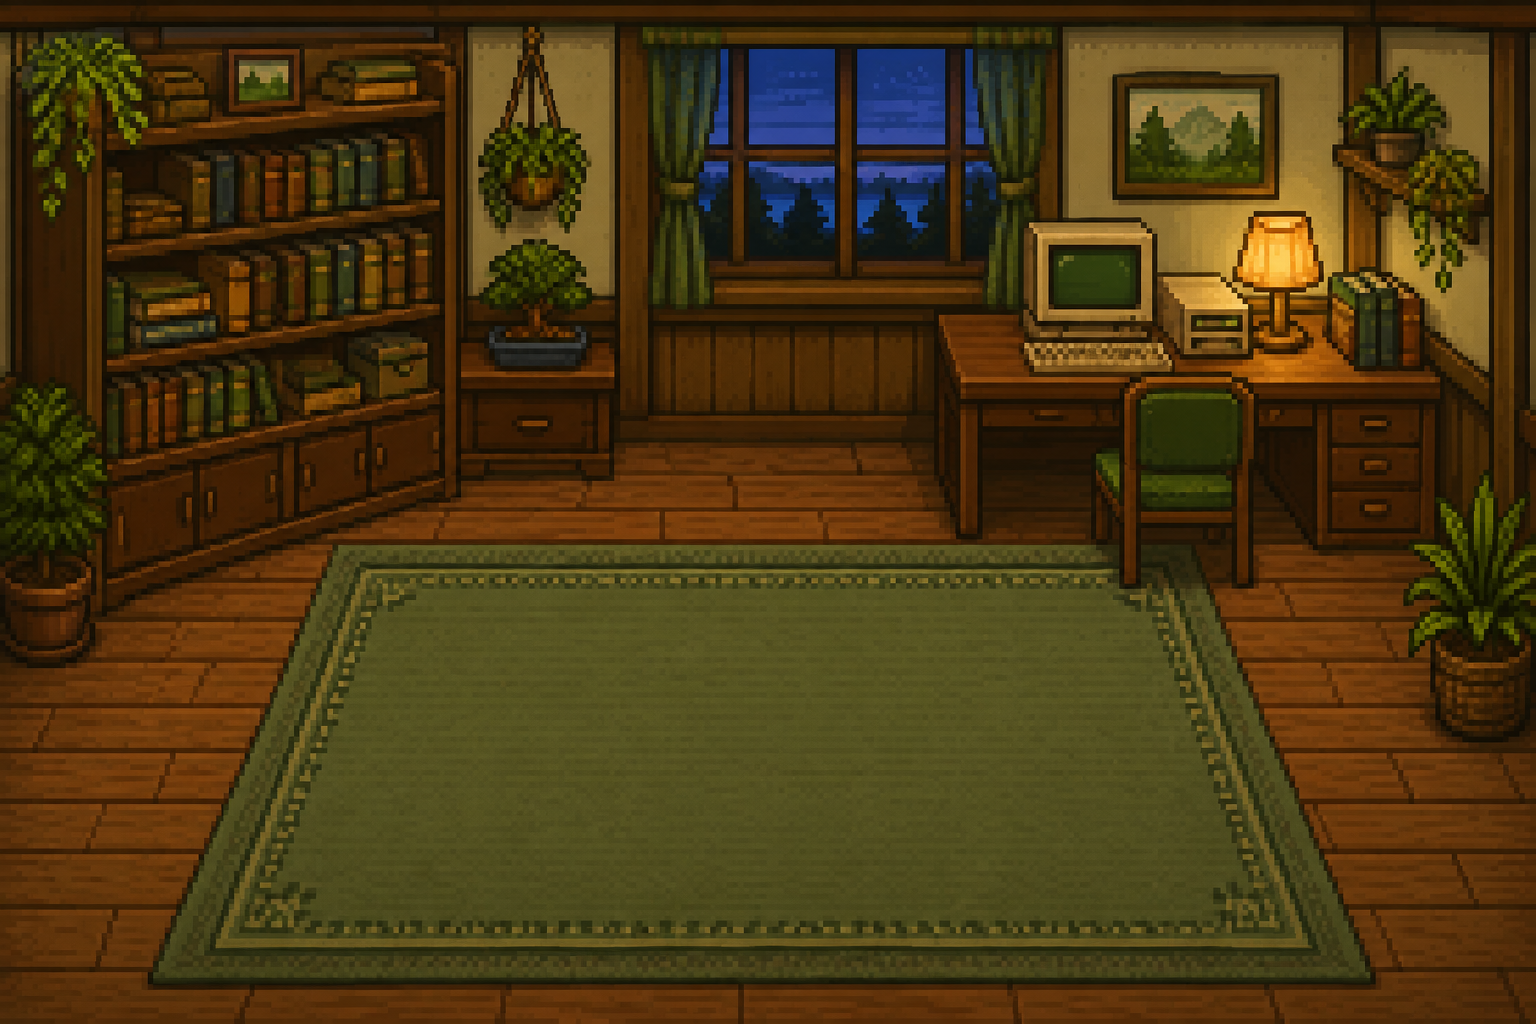
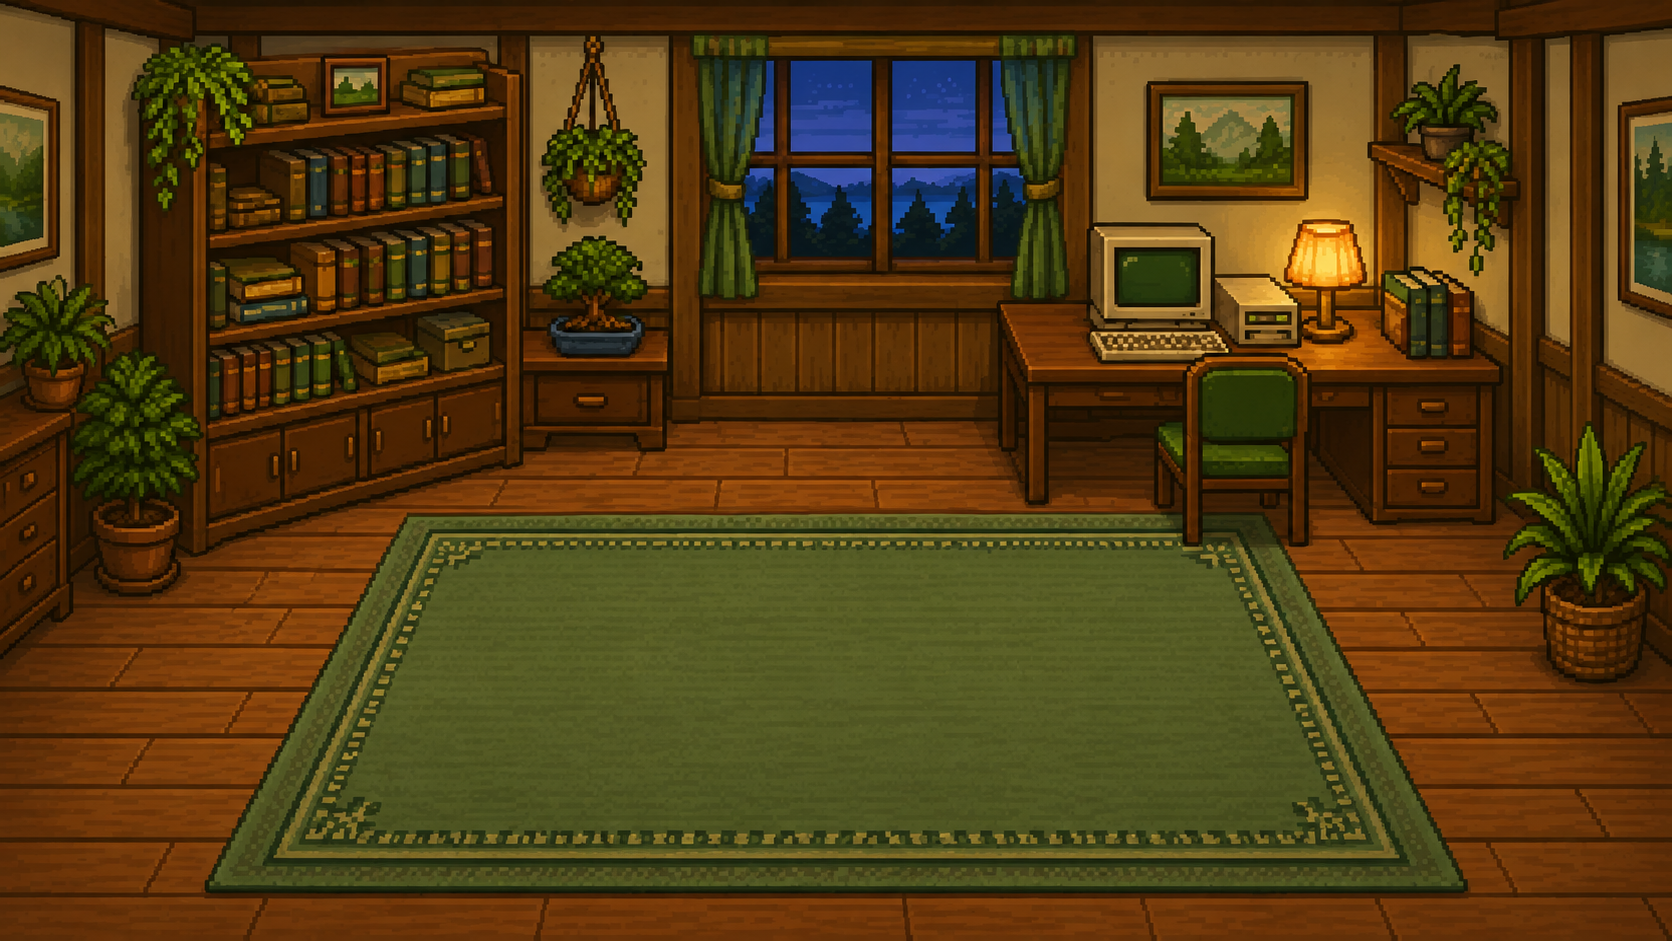
ゴンタの部屋を16:9で描き直しスマホの横幅いっぱいに拡張

diff --git a/public/room.css b/public/room.css
@@ -4,18 +4,18 @@
 .room-thinking{font-size:11px;color:#adbca5;line-height:1.6;margin:8px 0 0}
 .pixel-room{max-width:940px;margin:0 auto;padding:20px 28px 16px;font-family:GontaPixel,monospace;color:#f4e9cb}
 .room-mode #welcome,.room-mode #messages{display:none!important}.room-mode #chat{background:#171e1b}
-.room-scene{position:relative;aspect-ratio:3/2;width:100%;max-height:380px;overflow:hidden;background:#3c4633;border:4px solid #76624b;box-shadow:0 0 0 2px #111710;isolation:isolate}
+.room-scene{position:relative;aspect-ratio:16/9;width:100%;max-height:380px;overflow:hidden;background:#3c4633;border:4px solid #76624b;box-shadow:0 0 0 2px #111710;isolation:isolate}
 .room-background{position:absolute;width:100%;height:100%;object-fit:cover;image-rendering:pixelated}
-.room-worker{display:none;position:absolute;width:24%;aspect-ratio:1;background-size:200% 100%;background-repeat:no-repeat;image-rendering:pixelated;pointer-events:none;filter:drop-shadow(0 3px 0 #1b201d55);animation:room-work .65s steps(1,end) infinite}
-.room-worker-pc{left:52%;bottom:38%;background-image:url('/room-work-pc.png')}
-.room-worker-obsidian{left:10%;bottom:28%;background-image:url('/room-work-obsidian.png')}
+.room-worker{display:none;position:absolute;width:20.25%;aspect-ratio:1;background-size:200% 100%;background-repeat:no-repeat;image-rendering:pixelated;pointer-events:none;filter:drop-shadow(0 3px 0 #1b201d55);animation:room-work .65s steps(1,end) infinite}
+.room-worker-pc{left:53.875%;bottom:38%;background-image:url('/room-work-pc.png')}
+.room-worker-obsidian{left:11.875%;bottom:28%;background-image:url('/room-work-obsidian.png')}
 .pixel-room.is-searching .room-gonta,.pixel-room.is-pc-working .room-gonta{visibility:hidden}
 .pixel-room.is-searching .room-worker-obsidian,.pixel-room.is-pc-working .room-worker-pc{display:block}
 .pixel-room.is-searching .room-bubble{left:21%;bottom:72%;font-size:12px}
 .pixel-room.is-pc-working .room-bubble{left:72%;bottom:70%;font-size:12px}
 @keyframes room-work{0%,100%{background-position:0 0}50%{background-position:100% 0}}
 @media(prefers-reduced-motion:reduce){.room-worker{animation:none}}
-.room-gonta{position:absolute;width:24%;height:49%;object-fit:contain;bottom:9%;left:38%;image-rendering:pixelated;filter:drop-shadow(0 5px 0 #1b201d66);animation:room-idle 2.4s steps(2,end) infinite;transform-origin:bottom center}
+.room-gonta{position:absolute;width:20.25%;height:49%;object-fit:contain;bottom:9%;left:39.875%;image-rendering:pixelated;filter:drop-shadow(0 5px 0 #1b201d66);animation:room-idle 2.4s steps(2,end) infinite;transform-origin:bottom center}
 .room-bubble{position:absolute;bottom:60%;left:50%;transform:translateX(-50%);background:#fff0c9;color:#343824;border:3px solid #3c412c;box-shadow:3px 3px 0 #1b211f;font-size:20px;min-width:40px;text-align:center;padding:1px 8px}
 .room-bubble:after{content:'';position:absolute;width:8px;height:8px;background:#fff0c9;border-right:3px solid #3c412c;border-bottom:3px solid #3c412c;bottom:-8px;left:12px}
 .pixel-room.is-thinking .room-gonta{animation:room-think .8s steps(2,end) infinite}.pixel-room.is-talking .room-gonta{animation:room-talk .5s steps(2,end) infinite}
@@ -39,7 +39,7 @@
 @media(max-width:760px){.clock-bar{padding:6px 20px}.room-clock{top:8px;right:8px;font-size:11px;padding:5px 7px}.room-location{max-width:calc(100% - 218px)}}
 @media(max-width:420px){.room-clock{top:auto;bottom:8px;font-size:10px}.room-location{max-width:calc(100% - 16px)}}
 
-.room-worker-diary{left:0;top:auto;bottom:0;width:100%;aspect-ratio:3/2;background-image:url('/room-work-diary.png');filter:none;animation-duration:.9s}
+.room-worker-diary{left:37.344%;bottom:6%;width:25.3125%;background-image:url('/room-work-diary.png');animation-duration:.9s}
 .pixel-room.is-diary-writing .room-gonta{visibility:hidden}
 .pixel-room.is-diary-writing .room-worker-diary{display:block}
 .pixel-room.is-diary-writing .room-bubble{left:65%;bottom:55%;font-size:12px;z-index:1}
@@ -47,7 +47,7 @@
 .room-location{z-index:2}
 
 /* A 4-by-4 atlas: adjacent cells form a two-frame expression. */
-.room-emotion{display:none;position:absolute;left:35%;bottom:6%;width:30%;aspect-ratio:1;pointer-events:none;background-image:url('/room-emotions.png');background-size:400% 400%;background-repeat:no-repeat;image-rendering:pixelated;filter:drop-shadow(0 3px 0 #1b201d55);--emotion-start:0%;--emotion-end:33.333333%;--emotion-row:0%;background-position:var(--emotion-start) var(--emotion-row);animation:room-expression 1.2s steps(1,end) infinite}
+.room-emotion{display:none;position:absolute;left:37.344%;bottom:6%;width:25.3125%;aspect-ratio:1;pointer-events:none;background-image:url('/room-emotions.png');background-size:400% 400%;background-repeat:no-repeat;image-rendering:pixelated;filter:drop-shadow(0 3px 0 #1b201d55);--emotion-start:0%;--emotion-end:33.333333%;--emotion-row:0%;background-position:var(--emotion-start) var(--emotion-row);animation:room-expression 1.2s steps(1,end) infinite}
 .pixel-room.has-emotions:not([data-emotion=neutral]) .room-emotion{display:block}
 .pixel-room.has-emotions:not([data-emotion=neutral]) .room-gonta{visibility:hidden}
 .pixel-room[data-emotion=anger] .room-emotion{--emotion-start:66.666667%;--emotion-end:100%;animation-duration:.9s}
@@ -69,7 +69,7 @@ header{height:52px;padding:0 24px}
 .room-mode #room-sound{display:block}
 .main,#chat{min-height:0}
 .room-mode .pixel-room{display:flex;flex-direction:column;height:100%;min-height:440px;width:100%;padding:10px 24px;gap:10px}
-.room-mode .room-scene{flex:none;align-self:center;width:min(100%,calc(clamp(182px,31.2dvh,286px) * 1.5));max-height:none;aspect-ratio:3/2}
+.room-mode .room-scene{flex:none;align-self:center;width:min(100%,calc(clamp(182px,31.2dvh,286px) * 16 / 9));max-height:none;aspect-ratio:16/9}
 .room-mode .room-dialogue{display:flex;flex-direction:column;flex:1;min-height:220px;margin-top:0;padding:12px 16px}
 .room-mode .room-text{flex:1;min-height:0;max-height:none;overflow:auto;overscroll-behavior:contain}
 .room-dialogue-heading,.room-controls,.room-thinking{flex-shrink:0}
@@ -84,7 +84,7 @@ header{height:52px;padding:0 24px}
  #room-sound{font-size:10px;padding:4px 6px;min-height:30px}
  .connection-pill{padding:6px 7px}
  .room-mode .pixel-room{padding:8px 12px;gap:8px;min-height:400px}
- .room-mode .room-scene{width:min(100%,calc(clamp(156px,27.3dvh,221px) * 1.5))}
+ .room-mode .room-scene{width:calc(100% + 8px)}
  .room-mode .room-dialogue{padding:10px 12px}
  .room-mode footer{padding:5px 12px max(6px,env(safe-area-inset-bottom))}
  .room-clock{top:auto;bottom:6px;right:6px;font-size:10px;padding:3px 5px}
